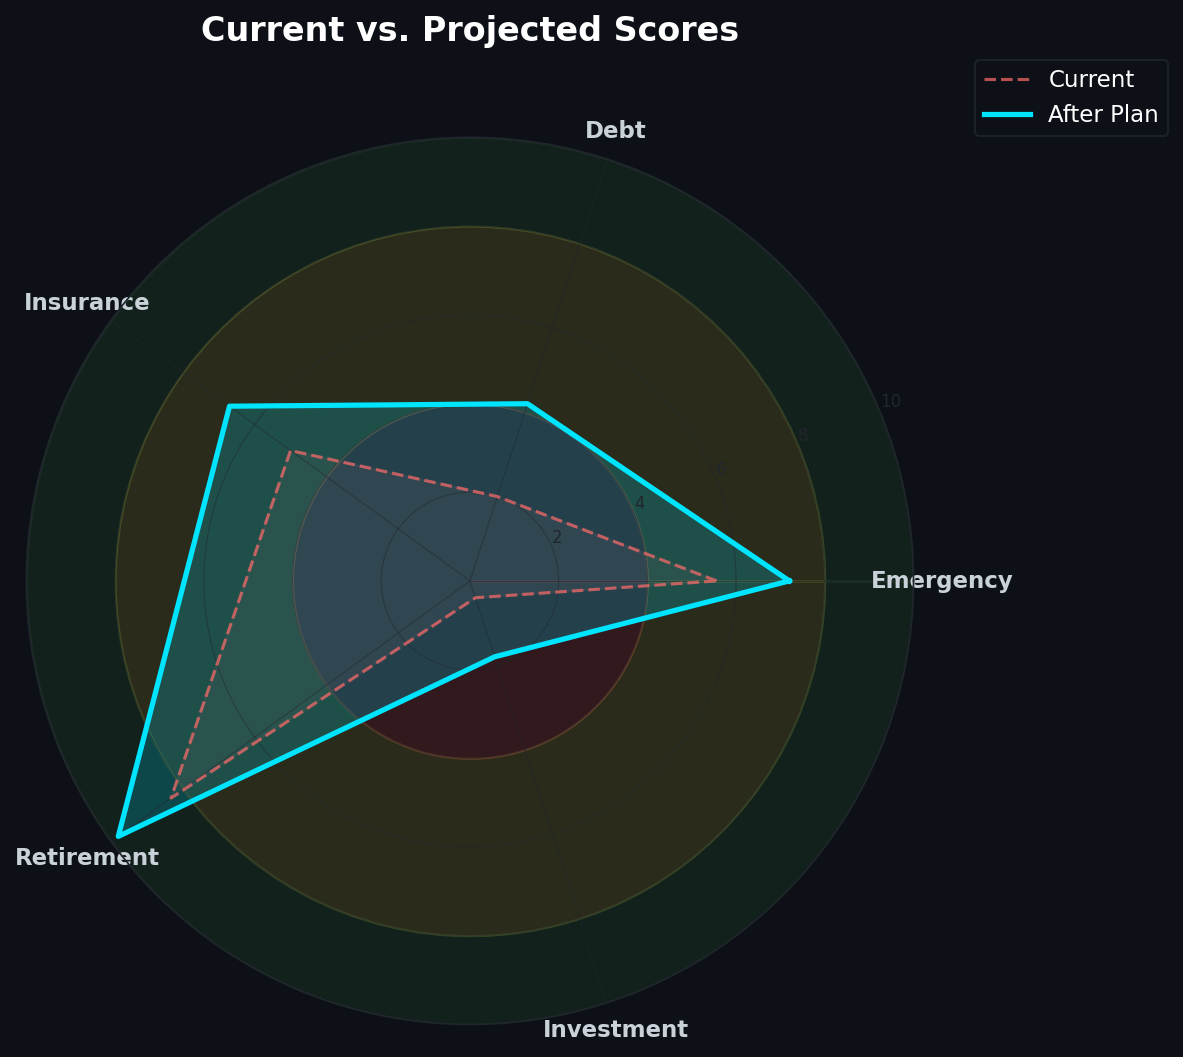
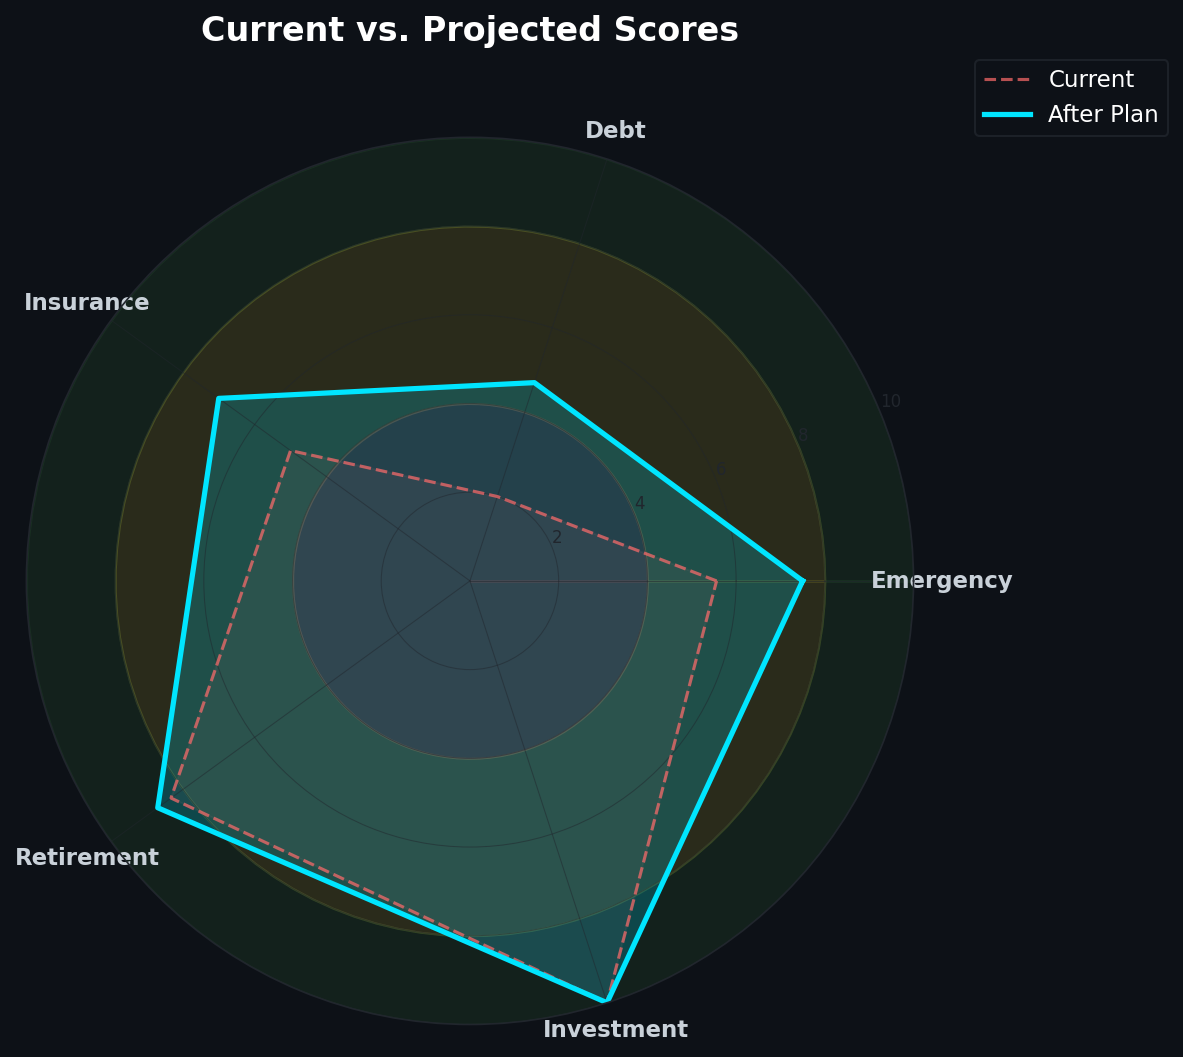
feat: implement user authentication and persistent profile storage using SQLite

Changed region(s): [[0.0913, 0.4995, 0.6999, 0.9678], [0.1522, 0.3434, 0.6086, 0.4995], [0.3652, 0.562, 0.3956, 0.5932]]

diff --git a/app.py b/app.py
@@ -15,6 +15,7 @@ from scoring_engine import FinancialEngine
 from visualization import create_spider_chart, create_comparison_chart
 from rag_setup import ingest_documents
 from langchain_core.messages import HumanMessage, AIMessage
+from database import init_db, create_user, authenticate_user, save_user_profile, get_user_profile
 
 # ── Page Config ────────────────────────────────────────────────────
 st.set_page_config(
@@ -121,6 +122,13 @@ if "rag_initialized" not in st.session_state:
     st.session_state.rag_initialized = False
 if "onboarding_shown" not in st.session_state:
     st.session_state.onboarding_shown = False
+if "logged_in" not in st.session_state:
+    st.session_state.logged_in = False
+    init_db()
+if "username" not in st.session_state:
+    st.session_state.username = None
+if "user_id" not in st.session_state:
+    st.session_state.user_id = None
 
 # ── Show onboarding message on first load ──────────────────────────
 if not st.session_state.onboarding_shown:
@@ -171,17 +179,81 @@ def init_rag():
 # ══════════════════════════════════════════════════════════════════
 # SIDEBAR: Financial Data Form
 # ══════════════════════════════════════════════════════════════════
+if not st.session_state.logged_in:
+    st.markdown("<h2 style='text-align: center; color: #00E5FF;'>🔐 Anti-Gravity Login</h2>", unsafe_allow_html=True)
+    st.markdown("<p style='text-align: center;'>Please login or register to access your financial profiles.</p>", unsafe_allow_html=True)
+    
+    col1, col2, col3 = st.columns([1, 2, 1])
+    with col2:
+        tab1, tab2 = st.tabs(["Login", "Register"])
+        
+        with tab1:
+            log_user = st.text_input("Username", key="log_user")
+            log_pass = st.text_input("Password", type="password", key="log_pass")
+            if st.button("Login", type="primary", use_container_width=True, key="log_btn"):
+                if log_user and log_pass:
+                    success, uid = authenticate_user(log_user, log_pass)
+                    if success:
+                        st.session_state.logged_in = True
+                        st.session_state.username = log_user
+                        st.session_state.user_id = uid
+                        
+                        profile = get_user_profile(uid)
+                        if profile:
+                            st.session_state.user_data = profile
+                            
+                        st.rerun()
+                    else:
+                        st.error("Invalid credentials.")
+                else:
+                    st.warning("Please fill all fields.")
+                    
+        with tab2:
+            reg_user = st.text_input("New Username", key="reg_user")
+            reg_pass = st.text_input("New Password", type="password", key="reg_pass")
+            reg_conf = st.text_input("Confirm Password", type="password", key="reg_conf")
+            if st.button("Register", type="primary", use_container_width=True, key="reg_btn"):
+                if reg_user and reg_pass and reg_conf:
+                    if reg_pass == reg_conf:
+                        success, msg = create_user(reg_user, reg_pass)
+                        if success:
+                            st.success("Registered successfully! Please login from the Login tab.")
+                        else:
+                            st.error(msg)
+                    else:
+                        st.warning("Passwords do not match!")
+                else:
+                    st.warning("Please fill all fields.")
+                    
+    st.stop()
+
+# ══════════════════════════════════════════════════════════════════
+# SIDEBAR: Financial Data Form
+# ══════════════════════════════════════════════════════════════════
 with st.sidebar:
+    st.markdown(f"**👤 Logged in as: {st.session_state.username}**")
+    if st.button("Logout", key="logout_btn", use_container_width=True):
+        st.session_state.logged_in = False
+        st.session_state.username = None
+        st.session_state.user_id = None
+        st.session_state.user_data = None
+        st.session_state.graph_result = None
+        st.session_state.chat_history = []
+        st.rerun()
+        
+    st.markdown("---")
     st.markdown("## 🚀 Your Financial Profile")
     st.markdown("---")
+    
+    saved_profile = st.session_state.user_data or {}
 
     # --- Income & Expenses ---
     st.markdown("### 💰 Income & Expenses")
     monthly_income = st.number_input(
-        "Monthly Income (₹)", min_value=0, value=50000, step=1000, key="income"
+        "Monthly Income (₹)", min_value=0, value=int(saved_profile.get("monthly_income", 50000)), step=1000, key="income"
     )
     essential_expenses = st.number_input(
-        "Monthly Essential Expenses (₹)", min_value=0, value=30000, step=1000, key="expenses"
+        "Monthly Essential Expenses (₹)", min_value=0, value=int(saved_profile.get("essential_expenses", 30000)), step=1000, key="expenses"
     )
 
     st.markdown("---")
@@ -189,13 +261,13 @@ with st.sidebar:
     # --- Savings ---
     st.markdown("### 🏦 Savings")
     liquid_savings = st.number_input(
-        "Liquid Savings / Emergency Fund (₹)", min_value=0, value=100000, step=5000, key="savings"
+        "Liquid Savings / Emergency Fund (₹)", min_value=0, value=int(saved_profile.get("liquid_savings", 100000)), step=5000, key="savings"
     )
     retirement_savings = st.number_input(
-        "Retirement Savings (PF/NPS/PPF) (₹)", min_value=0, value=500000, step=10000, key="retirement"
+        "Retirement Savings (PF/NPS/PPF) (₹)", min_value=0, value=int(saved_profile.get("retirement_savings", 500000)), step=10000, key="retirement"
     )
     annual_retirement_contribution = st.number_input(
-        "Annual Retirement Contribution (₹)", min_value=0, value=60000, step=5000, key="ret_contrib"
+        "Annual Retirement Contribution (₹)", min_value=0, value=int(saved_profile.get("annual_retirement_contribution", 60000)), step=5000, key="ret_contrib"
     )
 
     st.markdown("---")
@@ -232,19 +304,51 @@ with st.sidebar:
 
     # --- Age & Investment ---
     st.markdown("### 📊 Age & Investments")
-    age = st.number_input("Age", min_value=18, max_value=80, value=30, step=1, key="age")
-    current_equity_pct = st.slider("Current Equity Allocation (%)", 0, 100, 70, key="equity")
+    age = st.number_input("Age", min_value=18, max_value=80, value=int(saved_profile.get("age", 30)), step=1, key="age")
+    current_equity_pct = st.slider("Current Equity Allocation (%)", 0, 100, int(saved_profile.get("current_equity_pct", 70)), key="equity")
     tax_contributions = st.number_input(
-        "Annual Tax-Advantaged Contributions (₹)", min_value=0, value=150000, step=10000, key="tax_contrib"
+        "Annual Tax-Advantaged Contributions (₹)", min_value=0, value=int(saved_profile.get("tax_advantaged_contributions", 150000)), step=10000, key="tax_contrib"
     )
     employer_match = st.number_input(
-        "Employer Match (%)", min_value=0.0, max_value=20.0, value=3.0, step=0.5, key="match"
+        "Employer Match (%)", min_value=0.0, max_value=20.0, value=float(saved_profile.get("employer_match_pct", 3.0)), step=0.5, key="match"
     )
 
     st.markdown("---")
 
     # --- Submit ---
     analyze_btn = st.button("🚀 Analyze My Finances", use_container_width=True, type="primary")
+    save_btn = st.button("💾 Save Profile Configuration", use_container_width=True)
+
+    if save_btn:
+        user_data_to_save = {
+            "monthly_income": monthly_income,
+            "essential_expenses": essential_expenses,
+            "liquid_savings": liquid_savings,
+            "retirement_savings": retirement_savings,
+            "annual_retirement_contribution": annual_retirement_contribution,
+            "total_debt": sum(debt_balances),
+            "monthly_debt_payment": total_monthly_payment,
+            "debt_interest_rates": debt_rates,
+            "debt_names": debt_names,
+            "debt_balances": debt_balances,
+            "age": age,
+            "insurance_status": {
+                "health": has_health,
+                "life": has_life,
+                "disability": has_disability,
+            },
+            "tax_advantaged_contributions": tax_contributions,
+            "employer_match_pct": employer_match,
+            "current_equity_pct": current_equity_pct,
+            "annual_income": monthly_income * 12,
+        }
+        
+        success = save_user_profile(st.session_state.user_id, user_data_to_save)
+        if success:
+            st.session_state.user_data = user_data_to_save
+            st.success("✅ Profile saved!")
+        else:
+            st.error("❌ Failed to save profile.")
 
 
 # ══════════════════════════════════════════════════════════════════

diff --git a/database.py b/database.py
@@ -1,0 +1,120 @@
+import sqlite3
+import hashlib
+import os
+import json
+
+DB_PATH = "finance_app.db"
+
+def init_db():
+    conn = sqlite3.connect(DB_PATH)
+    cursor = conn.cursor()
+    
+    # Create Users table for authentication
+    cursor.execute('''
+        CREATE TABLE IF NOT EXISTS users (
+            id INTEGER PRIMARY KEY AUTOINCREMENT,
+            username TEXT UNIQUE NOT NULL,
+            password_hash TEXT NOT NULL,
+            salt TEXT NOT NULL
+        )
+    ''')
+    
+    # Create Profiles table for user data
+    cursor.execute('''
+        CREATE TABLE IF NOT EXISTS financial_profiles (
+            user_id INTEGER PRIMARY KEY,
+            profile_data TEXT NOT NULL,
+            FOREIGN KEY(user_id) REFERENCES users(id)
+        )
+    ''')
+    
+    conn.commit()
+    conn.close()
+
+def hash_password(password, salt=None):
+    if salt is None:
+        salt = os.urandom(16).hex()
+    pwd_hash = hashlib.pbkdf2_hmac('sha256', password.encode('utf-8'), salt.encode('utf-8'), 100000).hex()
+    return pwd_hash, salt
+
+def create_user(username, password):
+    conn = sqlite3.connect(DB_PATH)
+    cursor = conn.cursor()
+    
+    # Check if user already exists
+    cursor.execute("SELECT id FROM users WHERE username = ?", (username,))
+    if cursor.fetchone() is not None:
+        conn.close()
+        return False, "Username already exists."
+        
+    pwd_hash, salt = hash_password(password)
+    
+    try:
+        cursor.execute("INSERT INTO users (username, password_hash, salt) VALUES (?, ?, ?)", 
+                       (username, pwd_hash, salt))
+        conn.commit()
+        success = True
+        msg = "User created successfully."
+    except Exception as e:
+        success = False
+        msg = str(e)
+    finally:
+        conn.close()
+        
+    return success, msg
+
+def authenticate_user(username, password):
+    conn = sqlite3.connect(DB_PATH)
+    cursor = conn.cursor()
+    
+    cursor.execute("SELECT id, password_hash, salt FROM users WHERE username = ?", (username,))
+    user = cursor.fetchone()
+    conn.close()
+    
+    if user is None:
+        return False, None
+        
+    user_id, stored_hash, salt = user
+    pwd_hash, _ = hash_password(password, salt)
+    
+    if pwd_hash == stored_hash:
+        return True, user_id
+    else:
+        return False, None
+
+def save_user_profile(user_id, profile_dict):
+    conn = sqlite3.connect(DB_PATH)
+    cursor = conn.cursor()
+    
+    profile_json = json.dumps(profile_dict)
+    
+    # Check if a profile exists for this user to upsert
+    cursor.execute("SELECT user_id FROM financial_profiles WHERE user_id = ?", (user_id,))
+    existing = cursor.fetchone()
+    
+    if existing is None:
+        cursor.execute("INSERT INTO financial_profiles (user_id, profile_data) VALUES (?, ?)", 
+                       (user_id, profile_json))
+    else:
+        cursor.execute("UPDATE financial_profiles SET profile_data = ? WHERE user_id = ?", 
+                       (profile_json, user_id))
+                       
+    conn.commit()
+    conn.close()
+    return True
+
+def get_user_profile(user_id):
+    conn = sqlite3.connect(DB_PATH)
+    cursor = conn.cursor()
+    
+    cursor.execute("SELECT profile_data FROM financial_profiles WHERE user_id = ?", (user_id,))
+    row = cursor.fetchone()
+    conn.close()
+    
+    if row is None:
+        return None
+        
+    try:
+        return json.loads(row[0])
+    except:
+        return None

diff --git a/test_db.py b/test_db.py
@@ -1,0 +1,33 @@
+from database import init_db, create_user, authenticate_user, save_user_profile, get_user_profile
+
+def run_tests():
+    init_db()
+    
+    # Test User Registration
+    success, msg = create_user("testuser", "password123")
+    print("Registration:", msg)
+    
+    # Test Duplicate Registration
+    success, msg = create_user("testuser", "password123")
+    print("Duplicate Registration Test:", "Passed" if not success else "Failed")
+    
+    # Test Successful Auth
+    auth_success, user_id = authenticate_user("testuser", "password123")
+    print("Authentication:", "Passed" if auth_success else "Failed")
+    
+    # Test Failed Auth
+    auth_fail, _ = authenticate_user("testuser", "wrongpassword")
+    print("Failed Auth Test:", "Passed" if not auth_fail else "Failed")
+    
+    # Test Profile Save
+    dummy_profile = {"income": 1000, "expenses": 500}
+    save_user_profile(user_id, dummy_profile)
+    print("Profile Saved!")
+    
+    # Test Profile Retrieval
+    retrieved = get_user_profile(user_id)
+    print("Retrieved Profile:", retrieved)
+    print("Profile Test:", "Passed" if retrieved == dummy_profile else "Failed")
+
+if __name__ == "__main__":
+    run_tests()
